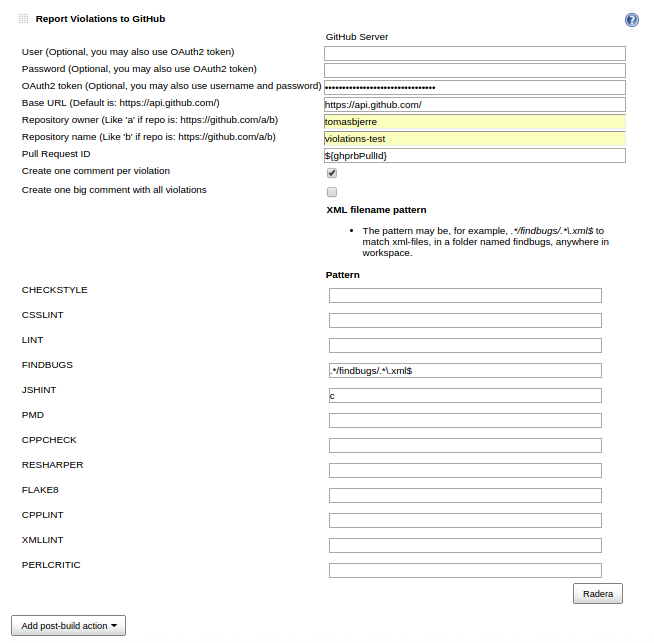
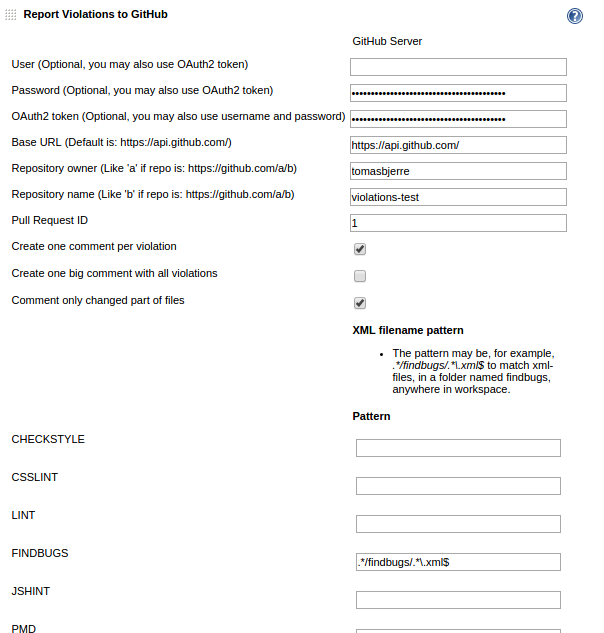
Updating screenshots

diff --git a/README.md b/README.md
@@ -1,7 +1,5 @@
 # Violation Comments to GitHub Jenkins Plugin
 
-Travis CI: [![Build Status](https://travis-ci.org/tomasbjerre/violation-comments-to-github-jenkins-plugin.svg?branch=master)](https://travis-ci.org/tomasbjerre/violation-comments-to-github-jenkins-plugin)
-
 CloudBees: [![Build Status](https://jenkins.ci.cloudbees.com/job/plugins/job/violation-comments-to-github-plugin/badge/icon)](https://jenkins.ci.cloudbees.com/job/plugins/job/violation-comments-to-github-plugin/)
 
 This is a Jenkins plugin for [Violation Comments to GitHub Lib](https://github.com/tomasbjerre/violation-comments-to-github-lib). This plugin will find report files from static code analysis and comment GitHub pull requests with the content.
@@ -42,7 +40,7 @@ The configuration looks like this.
 
 The pull request will be commented like this.
 
-![Post build action](https://github.com/jenkinsci/violation-comments-to-github-jenkins-plugin/blob/master/sandbox/findbugs-github-pr-file-comment.png)
+![Pull request comment](https://github.com/jenkinsci/violation-comments-to-github-jenkins-plugin/blob/master/sandbox/github-pr-diff-comment.png)
 
 
 # Plugin development

diff --git a/CHANGELOG.md b/CHANGELOG.md
@@ -3,6 +3,15 @@
 ## Unreleased
 ### No issue
 
+**Updating changelog**
+
+
+[d90dbb2a95e0ad6](https://github.com/tomasbjerre/violation-comments-to-github-jenkins-plugin/commit/d90dbb2a95e0ad6) Tomas Bjerre *2016-03-08 18:07:31*
+
+
+## violation-comments-to-github-1.3
+### No issue
+
 **Optionally only comment the changed part in diffs**
 
 
